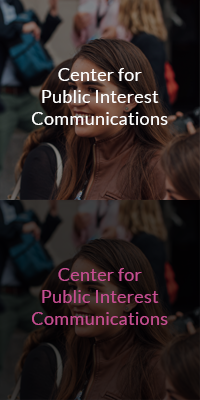
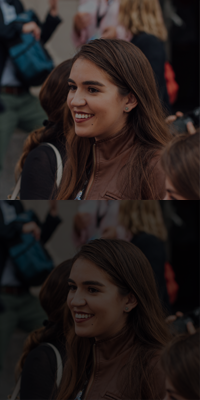
makes homepage buttons customizable

Changed region(s): [[0.15, 0.15, 0.84, 0.33], [0.15, 0.66, 0.84, 0.81]]

diff --git a/style.css b/style.css
@@ -494,6 +494,19 @@ header {
 	width: 200px;
 	height: 200px;
 	margin: 10px;
+	color: #fff;
+	text-align: center;
+	display: flex;
+	align-items: center;
+	justify-content: center;
+}
+
+.tri-box h5 {
+	font-family: Lato, Arial, Helvetica, sans-serif;
+	font-size: 2.2rem;
+	font-weight: 400;
+	margin: 0;
+	line-height: 1.1;
 }
 
 .link-boxes a {
@@ -502,6 +515,7 @@ header {
 
 .tri-box:hover {
 	background-position: 0 200px;
+	color: #C54E90;
 }
 
 

diff --git a/page-templates/home-page.php b/page-templates/home-page.php
@@ -30,23 +30,27 @@ get_header(); ?>
 				<?php the_field( 'home_twitter_feed' ); ?>
 			</div>
             <div class="eight columns link-boxes">
-                <a href="#" title="prize" target="_blank">
+                <a href="<?php the_field( 'button_1_link' ); ?>" title="<?php the_field( 'button_1_text' ); ?>" target="_blank">
                     <div class="tri-box" style="background-image: url(https://allisoncandreva.com/test/wp-content/themes/frank/images/box_bg_img_1.png)" >    	
                     <span role="img" aria-label="An image of buttons from frank 2016"> </span>
+                    <h5><?php the_field( 'button_1_text' ); ?></h5>
                     </div>
                 </a>
-                <a href="#" title="prize" target="_blank">
+                <a href="<?php the_field( 'button_2_link' ); ?>" title="<?php the_field( 'button_2_text' ); ?>" target="_blank">
                     <div class="tri-box" style="background-image: url(https://allisoncandreva.com/test/wp-content/themes/frank/images/box_bg_img_2.png)" >    	
                     <span role="img" aria-label="A woman attending frank 2016"> </span>
+                    <h5><?php the_field( 'button_2_text' ); ?></h5>
                     </div>
                 </a>
-                <a href="https://www.jou.ufl.edu/cpic/" title="Visit the Center for Public Interest Communications"  target="_blank">
-                    <div class="tri-box" style="background-image: url(https://allisoncandreva.com/test/wp-content/themes/frank/images/box_bg_imgs_t.png)"                         <span role="img" aria-label="An image of buttons from frank 2016"> </span>
+                <a href="<?php the_field( 'button_3_link' ); ?>" title="<?php the_field( 'button_3_text' ); ?>" target="_blank">
+                    <div class="tri-box" style="background-image: url(https://allisoncandreva.com/test/wp-content/themes/frank/images/box_bg_img_3.png)"                         <span role="img" aria-label="An image of buttons from frank 2016"> </span>
+                    <h5><?php the_field( 'button_3_text' ); ?></h5>
                     </div>
                 </a>
-                <a href="http://changeville.us/" title="Visit changeville's site">
-                    <div class="tri-box" style="background-image: url(https://allisoncandreva.com/test/wp-content/themes/frank/images/box_bg_imgs_t.png)" >
-                    <span role="img" aria-label="An image of buttons from frank 2016"> </span>
+                <a href="<?php the_field( 'button_4_link' ); ?>" title="<?php the_field( 'button_4_text' ); ?>" target="_blank">
+                    <div class="tri-box" style="background-image: url(https://allisoncandreva.com/test/wp-content/themes/frank/images/box_bg_img.png)" >
+                    <span role="img" aria-label="A woman with an umbrella at frank"> </span>
+                    <h5><?php the_field( 'button_4_text' ); ?></h5>
                     </div>
                 </a>
             </div>
